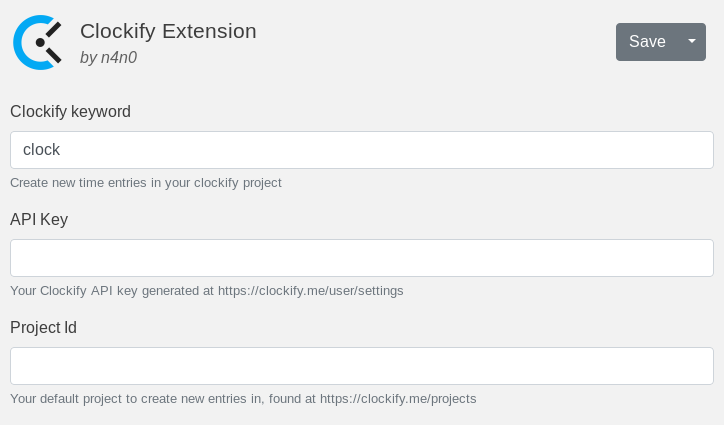
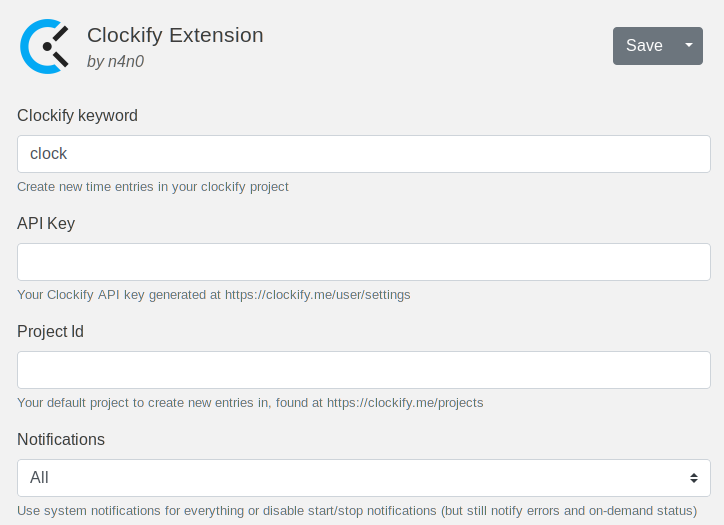
add settings for notifications

diff --git a/main.py b/main.py
@@ -93,6 +93,9 @@ class KeywordQueryEventListener(EventListener):
 class ItemEventListener(EventListener):
 
     def notification_action(self, title, message, mode):
+        if self.__notifications_level == 'errors_and_status' and mode != 'error' and mode != 'status':
+            return
+
         Notify.init('ClockifyExtension')
         notif = Notify.Notification.new(title, f"\n{message}", f"{os.path.dirname(__file__)}/images/icon.png")
         if mode == 'error':
@@ -252,6 +255,7 @@ class ItemEventListener(EventListener):
             'X-Api-Key': extension.preferences.get('api_key')
         }
         self.__project_id = extension.preferences.get('project_id')
+        self.__notifications_level = extension.preferences.get('notifications_level')
         self.__user = self.get_user()
         self.__base_workspace_url = f"{api_base_url}/workspaces/{self.__user['default_workspace']}"
 
